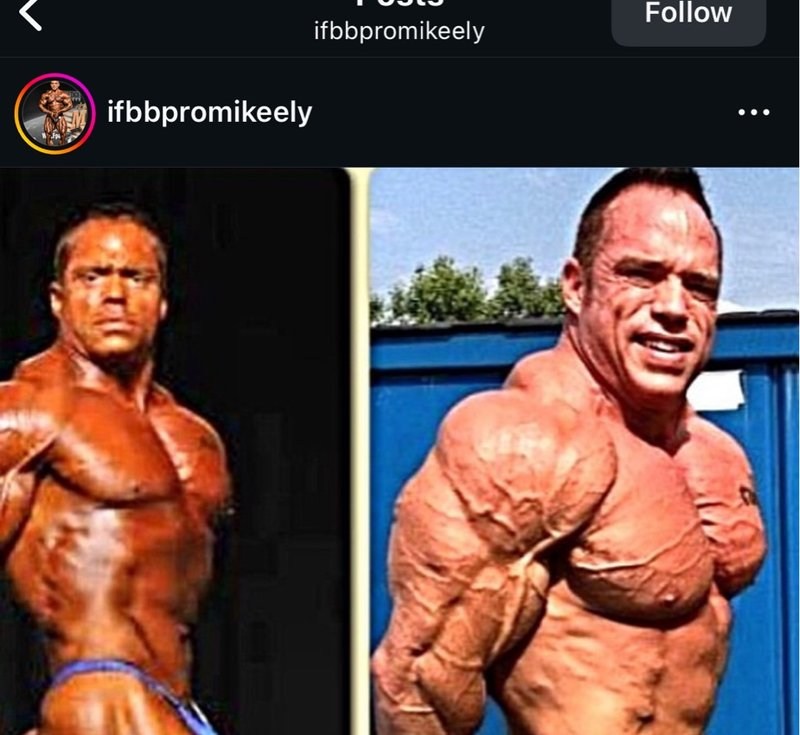
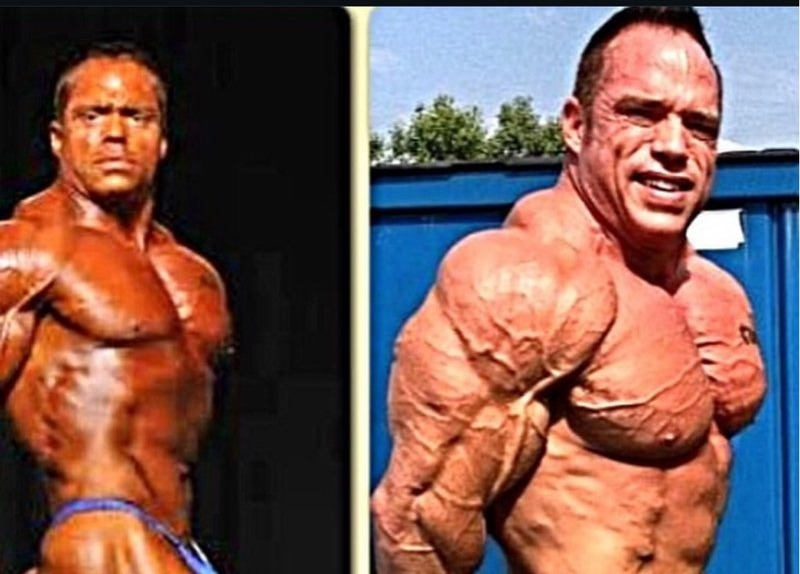
Crop IG chrome from 9 gallery images, fix hero overflow, fix results crops
IMAGE CROPS (physical file edits — IG UI permanently removed):
- gallery-wings-stage: cut 28% top (IG header/profile)
- gallery-stage-2014: cut 38% top (header/caption/profile/date)
- gallery-ferrigno-prep: cut 28% top (header/profile)
- gallery-gym-prep-2014: cut 40% top (header/caption/profile)
- gallery-muscular-dev-2013: cut 22% top (header/profile)
- gallery-procard-story: cut 8% top + 30% bottom (caption area)
- gallery-transformation: cut 22% top (header/profile)
- gallery-guest-posing-npc-ny: cut 15% top + 15% bottom
- gallery-gym-back-squats: cut 8% bottom (Add comment bar)
Originals saved as *_orig.jpg backups (untracked)

HERO FIX:
- h1: 14vw/200px → 11.5vw/180px — "ELY" was getting cut off at 1440px
- Removed max-width constraint on hero-content (was 960px)
- Letter-spacing: .04em → .03em for tighter fit
- Mobile: 19vw → 16vw, bottom padding reduced

RESULTS FIX:
- Default object-position: center 25% → center 15% (faces were cropped)
- Per-image position adjustments for proper framing

GALLERY:
- Reset all object-position values to work with cropped images

https://claude.ai/code/session_01Yabx9uNFuZQ9oobBMWA1fP

diff --git a/index.html b/index.html
@@ -306,9 +306,9 @@ button{font-family:inherit;cursor:pointer;border:none;background:none}a,button{t
 .hero-dust{position:absolute;inset:0;z-index:1;pointer-events:none;overflow:hidden}
 .hero-dust span{position:absolute;width:2px;height:2px;background:var(--acc);border-radius:50%;opacity:0;animation:dustFloat linear infinite;box-shadow:0 0 6px rgba(224,176,48,.4)}
 .hero-dust span:nth-child(1){left:15%;top:80%;animation-duration:8s}.hero-dust span:nth-child(2){left:45%;top:90%;animation-duration:12s;animation-delay:2s;width:1.5px;height:1.5px}.hero-dust span:nth-child(3){left:72%;top:85%;animation-duration:10s;animation-delay:4s}.hero-dust span:nth-child(4){left:30%;top:95%;animation-duration:14s;animation-delay:1s;width:1px;height:1px}.hero-dust span:nth-child(5){left:88%;top:88%;animation-duration:9s;animation-delay:3s;width:1.5px;height:1.5px}.hero-dust span:nth-child(6){left:8%;top:92%;animation-duration:11s;animation-delay:5s}.hero-dust span:nth-child(7){left:60%;top:82%;animation-duration:13s;animation-delay:6s;width:1px;height:1px}.hero-dust span:nth-child(8){left:52%;top:96%;animation-duration:7s;animation-delay:.5s}
-.hero-content{position:relative;z-index:2;text-align:center;max-width:960px;padding-bottom:clamp(60px,12vh,120px)}
+.hero-content{position:relative;z-index:2;text-align:center;width:100%;padding:0 24px;padding-bottom:clamp(60px,12vh,120px)}
 /* HERO H1 — carved gold, maximum presence */
-.hero h1{font-family:var(--display);font-size:clamp(72px,14vw,200px);font-weight:900;line-height:.88;margin-bottom:0;letter-spacing:.04em;white-space:nowrap;
+.hero h1{font-family:var(--display);font-size:clamp(72px,11.5vw,180px);font-weight:900;line-height:.88;margin-bottom:0;letter-spacing:.03em;white-space:nowrap;
   background:linear-gradient(100deg,#6B4E14 0%,#8B6820 12%,#BF9930 28%,#D4B048 38%,#E8CC68 45%,#F5E8A8 49%,#FFFCE8 51%,#F5E8A8 53%,#E8CC68 57%,#D4B048 64%,#BF9930 74%,#8B6820 88%,#6B4E14 100%);
   background-size:300% 100%;-webkit-background-clip:text;-webkit-text-fill-color:transparent;background-clip:text;
   opacity:0;animation:heroTitleIn 1.8s var(--ease) 16s forwards,brShimmer 8s linear 18.5s infinite;
@@ -412,7 +412,7 @@ img[loading="lazy"]{opacity:0;transition:opacity .6s var(--ease)}img[loading="la
 .results-grid{display:grid;grid-template-columns:repeat(3,1fr);gap:14px}
 .results-photo{border-radius:12px;overflow:hidden;position:relative;border:1px solid var(--borderS);aspect-ratio:1/1;cursor:pointer;transition:all .5s var(--ease);background:linear-gradient(110deg,var(--card) 30%,rgba(224,176,48,.04) 50%,var(--card) 70%);background-size:200% 100%;animation:imgShimmer 1.8s ease-in-out infinite}
 .results-photo:has(img.loaded){animation:none;background:var(--card)}
-.results-photo img{width:100%;height:100%;object-fit:cover;object-position:center 25%;transition:transform .7s var(--ease),filter .7s;filter:contrast(1.05) brightness(.9)}
+.results-photo img{width:100%;height:100%;object-fit:cover;object-position:center 15%;transition:transform .7s var(--ease),filter .7s;filter:contrast(1.05) brightness(.9)}
 .results-photo:hover img{transform:scale(1.06);filter:contrast(1.08) brightness(1.02) saturate(1.05)}
 .results-photo::before{content:'';position:absolute;inset:0;z-index:2;background:linear-gradient(135deg,transparent 40%,rgba(255,240,180,.05) 50%,transparent 60%);opacity:0;transition:opacity .5s var(--ease);pointer-events:none}
 .results-photo:hover::before{opacity:1}
@@ -550,8 +550,8 @@ img[loading="lazy"]{opacity:0;transition:opacity .6s var(--ease)}img[loading="la
     linear-gradient(180deg,
     rgba(2,2,2,.6) 0%,rgba(2,2,2,.15) 10%,transparent 22%,transparent 42%,
     rgba(2,2,2,.2) 52%,rgba(2,2,2,.65) 62%,rgba(2,2,2,.92) 74%,rgba(2,2,2,.99) 84%,rgba(2,2,2,1) 90%)}
-  .hero-content{max-width:100%;padding:0 16px calc(env(safe-area-inset-bottom,0px) + 40px);text-align:center}
-  .hero h1{font-size:clamp(56px,19vw,96px);white-space:normal;line-height:.84;
+  .hero-content{max-width:100%;width:100%;padding:0 16px calc(env(safe-area-inset-bottom,0px) + 24px);text-align:center}
+  .hero h1{font-size:clamp(52px,16vw,88px);white-space:normal;line-height:.84;
     filter:drop-shadow(0 2px 16px rgba(224,176,48,.3)) drop-shadow(0 4px 30px rgba(224,176,48,.12))}
   .hero h1::after{left:8%;right:8%}
   .hero-sub{font-size:11px}
@@ -831,12 +831,12 @@ img[loading="lazy"]{opacity:0;transition:opacity .6s var(--ease)}img[loading="la
 
       <!-- PRO CARDS -->
       <div class="results-photo reveal" onclick="openLB(this)" role="button" tabindex="0" onkeydown="if(event.key==='Enter'||event.key===' '){event.preventDefault();openLB(this)}">
-        <img src="img/results-procard-lindsay.jpg" alt="Athlete holding IFBB Pro Card with Mike Ely" loading="lazy" style="object-position:center 35%">
+        <img src="img/results-procard-lindsay.jpg" alt="Athlete holding IFBB Pro Card with Mike Ely" loading="lazy">
         <div class="results-photo-label">Pro Card</div>
       </div>
 
       <div class="results-photo reveal" onclick="openLB(this)" role="button" tabindex="0" onkeydown="if(event.key==='Enter'||event.key===' '){event.preventDefault();openLB(this)}">
-        <img src="img/results-procard-lindsay-stage.jpg" alt="Athlete on stage with IFBB Pro Card" loading="lazy" style="object-position:center 30%">
+        <img src="img/results-procard-lindsay-stage.jpg" alt="Athlete on stage with IFBB Pro Card" loading="lazy" style="object-position:center 20%">
         <div class="results-photo-label">Pro Card</div>
       </div>
 
@@ -846,22 +846,22 @@ img[loading="lazy"]{opacity:0;transition:opacity .6s var(--ease)}img[loading="la
       </div>
 
       <div class="results-photo reveal" onclick="openLB(this)" role="button" tabindex="0" onkeydown="if(event.key==='Enter'||event.key===' '){event.preventDefault();openLB(this)}">
-        <img src="img/results-procard-backstage.jpg" alt="Mike and athlete backstage with IFBB Pro Card" loading="lazy" style="object-position:center 30%">
+        <img src="img/results-procard-backstage.jpg" alt="Mike and athlete backstage with IFBB Pro Card" loading="lazy">
         <div class="results-photo-label">Pro Card</div>
       </div>
 
       <div class="results-photo reveal" onclick="openLB(this)" role="button" tabindex="0" onkeydown="if(event.key==='Enter'||event.key===' '){event.preventDefault();openLB(this)}">
-        <img src="img/results-procard-female-2.jpg" alt="Athlete raising IFBB Pro Card outdoors" loading="lazy" style="object-position:center 20%">
+        <img src="img/results-procard-female-2.jpg" alt="Athlete raising IFBB Pro Card outdoors" loading="lazy" style="object-position:center 10%">
         <div class="results-photo-label">Pro Card</div>
       </div>
 
       <div class="results-photo reveal" onclick="openLB(this)" role="button" tabindex="0" onkeydown="if(event.key==='Enter'||event.key===' '){event.preventDefault();openLB(this)}">
-        <img src="img/results-procard-female-3.jpg" alt="Athlete holding IFBB Pro Card" loading="lazy" style="object-position:center 30%">
+        <img src="img/results-procard-female-3.jpg" alt="Athlete holding IFBB Pro Card" loading="lazy" style="object-position:center 18%">
         <div class="results-photo-label">Pro Card</div>
       </div>
 
       <div class="results-photo reveal" onclick="openLB(this)" role="button" tabindex="0" onkeydown="if(event.key==='Enter'||event.key===' '){event.preventDefault();openLB(this)}">
-        <img src="img/results-procard-ladies.jpg" alt="Athlete on stage with medal" loading="lazy" style="object-position:center 50%">
+        <img src="img/results-procard-ladies.jpg" alt="Athlete on stage with medal" loading="lazy" style="object-position:center 40%">
         <div class="results-photo-label">Pro Card</div>
       </div>
 
@@ -1015,17 +1015,17 @@ img[loading="lazy"]{opacity:0;transition:opacity .6s var(--ease)}img[loading="la
       </div>
 
       <div class="gal-item reveal" onclick="openLB(this)" role="button" tabindex="0" onkeydown="if(event.key==='Enter'||event.key===' '){event.preventDefault();openLB(this)}">
-        <img src="img/gallery-wings-stage.jpg" alt="Mike Ely back double bicep under stage lights — Wings of Strength" loading="lazy" style="object-position:center 62%">
+        <img src="img/gallery-wings-stage.jpg" alt="Mike Ely back double bicep under stage lights — Wings of Strength" loading="lazy" style="object-position:center 20%">
         <div class="gal-label">Wings of Strength</div>
       </div>
 
       <div class="gal-item reveal" onclick="openLB(this)" role="button" tabindex="0" onkeydown="if(event.key==='Enter'||event.key===' '){event.preventDefault();openLB(this)}">
-        <img src="img/gallery-stage-2014.jpg" alt="Mike Ely on stage 2014" loading="lazy" style="object-position:center 68%">
+        <img src="img/gallery-stage-2014.jpg" alt="Mike Ely on stage 2014" loading="lazy" style="object-position:center 15%">
         <div class="gal-label">On Stage — 2014</div>
       </div>
 
       <div class="gal-item reveal" onclick="openLB(this)" role="button" tabindex="0" onkeydown="if(event.key==='Enter'||event.key===' '){event.preventDefault();openLB(this)}">
-        <img src="img/gallery-ferrigno-prep.jpg" alt="Mike Ely preparing for Ferrigno Legacy competition" loading="lazy" style="object-position:center 62%">
+        <img src="img/gallery-ferrigno-prep.jpg" alt="Mike Ely preparing for Ferrigno Legacy competition" loading="lazy" style="object-position:center 20%">
         <div class="gal-label">Ferrigno Legacy</div>
       </div>
 
@@ -1079,7 +1079,7 @@ img[loading="lazy"]{opacity:0;transition:opacity .6s var(--ease)}img[loading="la
       </div>
 
       <div class="gal-item reveal" onclick="openLB(this)" role="button" tabindex="0" onkeydown="if(event.key==='Enter'||event.key===' '){event.preventDefault();openLB(this)}">
-        <img src="img/gallery-guest-posing-npc-ny.jpg" alt="Mike Ely guest posing at NPC New York" loading="lazy" style="object-position:center 48%">
+        <img src="img/gallery-guest-posing-npc-ny.jpg" alt="Mike Ely guest posing at NPC New York" loading="lazy" style="object-position:center 25%">
         <div class="gal-label">Guest Posing — NPC New York</div>
       </div>
 
@@ -1108,22 +1108,22 @@ img[loading="lazy"]{opacity:0;transition:opacity .6s var(--ease)}img[loading="la
       </div>
 
       <div class="gal-item reveal" onclick="openLB(this)" role="button" tabindex="0" onkeydown="if(event.key==='Enter'||event.key===' '){event.preventDefault();openLB(this)}">
-        <img src="img/gallery-procard-story.jpg" alt="Where the pro card story started" loading="lazy" style="object-position:center 55%">
+        <img src="img/gallery-procard-story.jpg" alt="Where the pro card story started" loading="lazy" style="object-position:center center">
         <div class="gal-label">Where the Pro Card Story Started</div>
       </div>
 
       <div class="gal-item reveal" onclick="openLB(this)" role="button" tabindex="0" onkeydown="if(event.key==='Enter'||event.key===' '){event.preventDefault();openLB(this)}">
-        <img src="img/gallery-transformation.jpg" alt="Mike Ely physique evolution" loading="lazy" style="object-position:center 52%">
+        <img src="img/gallery-transformation.jpg" alt="Mike Ely physique evolution" loading="lazy" style="object-position:center center">
         <div class="gal-label">The Evolution — Then to Now</div>
       </div>
 
       <div class="gal-item reveal" onclick="openLB(this)" role="button" tabindex="0" onkeydown="if(event.key==='Enter'||event.key===' '){event.preventDefault();openLB(this)}">
-        <img src="img/gallery-gym-prep-2014.jpg" alt="Mike Ely contest prep 2014" loading="lazy" style="object-position:center 72%">
+        <img src="img/gallery-gym-prep-2014.jpg" alt="Mike Ely contest prep 2014" loading="lazy" style="object-position:center center">
         <div class="gal-label">Contest Prep — 2014</div>
       </div>
 
       <div class="gal-item reveal" onclick="openLB(this)" role="button" tabindex="0" onkeydown="if(event.key==='Enter'||event.key===' '){event.preventDefault();openLB(this)}">
-        <img src="img/gallery-muscular-dev-2013.jpg" alt="Mike Ely Muscular Development magazine 2013" loading="lazy" style="object-position:center 62%">
+        <img src="img/gallery-muscular-dev-2013.jpg" alt="Mike Ely Muscular Development magazine 2013" loading="lazy" style="object-position:center center">
         <div class="gal-label">Muscular Development — 2013</div>
       </div>
 
